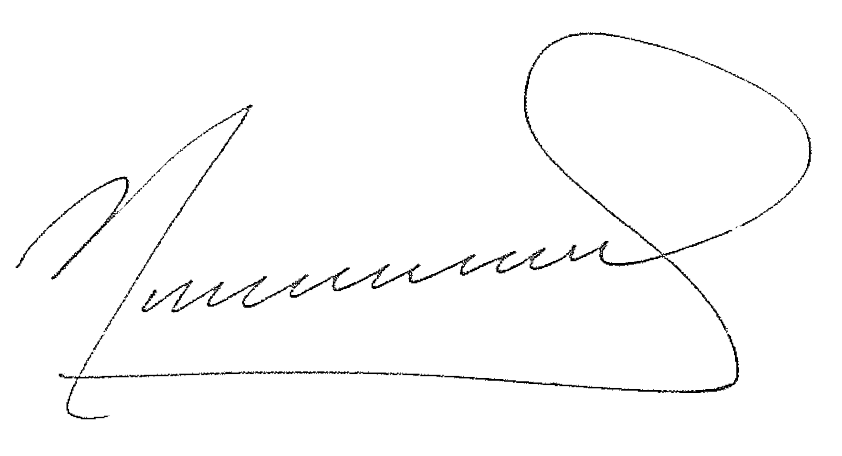
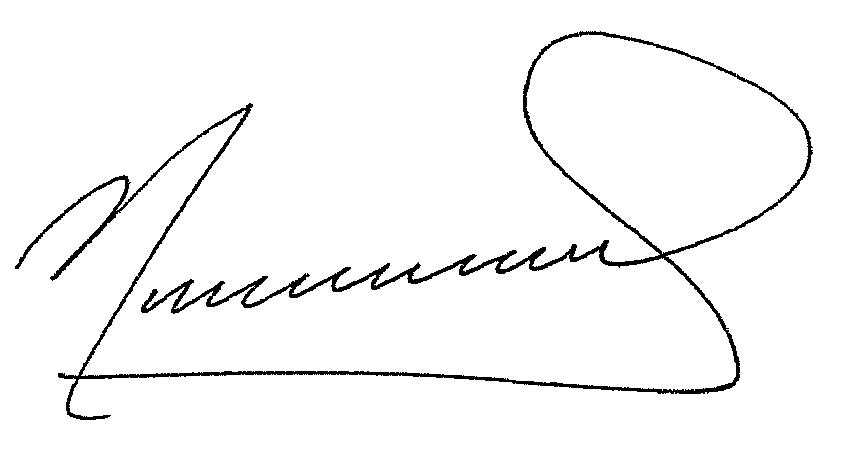
update: Change director's signature

diff --git a/src/pages/inscriptions/wizard-inscription-page/wizard-inscription-page.component.ts b/src/pages/inscriptions/wizard-inscription-page/wizard-inscription-page.component.ts
@@ -81,25 +81,12 @@ export class WizardInscriptionPageComponent implements OnInit {
           this.step = this.studentData.stepWizard ? this.studentData.stepWizard : 0;
           this.semesterStudent = this.studentData.semester ? this.studentData.semester : 0;
           this.validateStudent = true;
-          // if(this.studentData.inscriptionStatus){
-          //   if(this.step == 6){
-          //     //window.location.assign("/profileInscription");
-          //     this.router.navigate(['/profileInscription']);
-          //   }else if(this.semesterStudent == 1){
-          //     this.validateStudent = true;
-          //   }
-          //   if(this.step > 0 && this.step < 6){
-          //     this.validateStudent = true;
-          //   }
-          // } else {
-          //   this.validateStudent = true;
-          //   // Mostrar wizzard si el semestre es 1, de lo contrario mostrar advertencia.
-          //   if(this.semesterStudent == 1){
-          //     this.validateStudent = true;
-          //   } else{
-          //     this.validateStudent = false;
-          //   }
-          // }
+          if(this.studentData.inscriptionStatus){
+             if(this.step == 6){
+               //window.location.assign("/profileInscription");
+               this.router.navigate(['/profileInscription']);
+             }
+           } 
         });     
       },
       (err)=>{        

diff --git a/src/entities/reception-act/request.ts b/src/entities/reception-act/request.ts
@@ -710,13 +710,13 @@ export class uRequest {
 
         doc.text(`COTEJO`, this.MARGIN.LEFT + 32, 190, { align: 'left' });
 
-        doc.addImage(this.serviceFirm, 'PNG', this.MARGIN.LEFT + 32, 193, 60, 25);
+        doc.addImage(this.serviceFirm, 'PNG', this.MARGIN.LEFT + 10, 198, 60, 20);
         let positionGender = 'JEFE';
         // this.JDeptoDiv.gender === 'FEMENINO' ? 'JEFA' : 'JEFE';
         doc.text(`${this.letterCapital(positionGender)} del Departamento de Servicios Escolares`, this.MARGIN.LEFT + 32, 220, { maxWidth: 50, align: 'left' });
         doc.text(servicios, this.MARGIN.LEFT + 32, 226, { maxWidth: 50, align: 'left' });
 
-        doc.addImage(this.directorFirm, 'PNG', this.WIDTH / 2, 213, 60, 25);
+        doc.addImage(this.directorFirm, 'PNG', this.WIDTH / 2, 221, 60, 25);
         doc.text(`${director} `, this.WIDTH / 2, 240, { align: 'left' });
         doc.text(`Director`, (this.WIDTH / 2) + ((doc.getStringUnitWidth(director) * 72 / 25.6) / 2), 244, { maxWidth: 50, align: 'left' });
         return doc;
